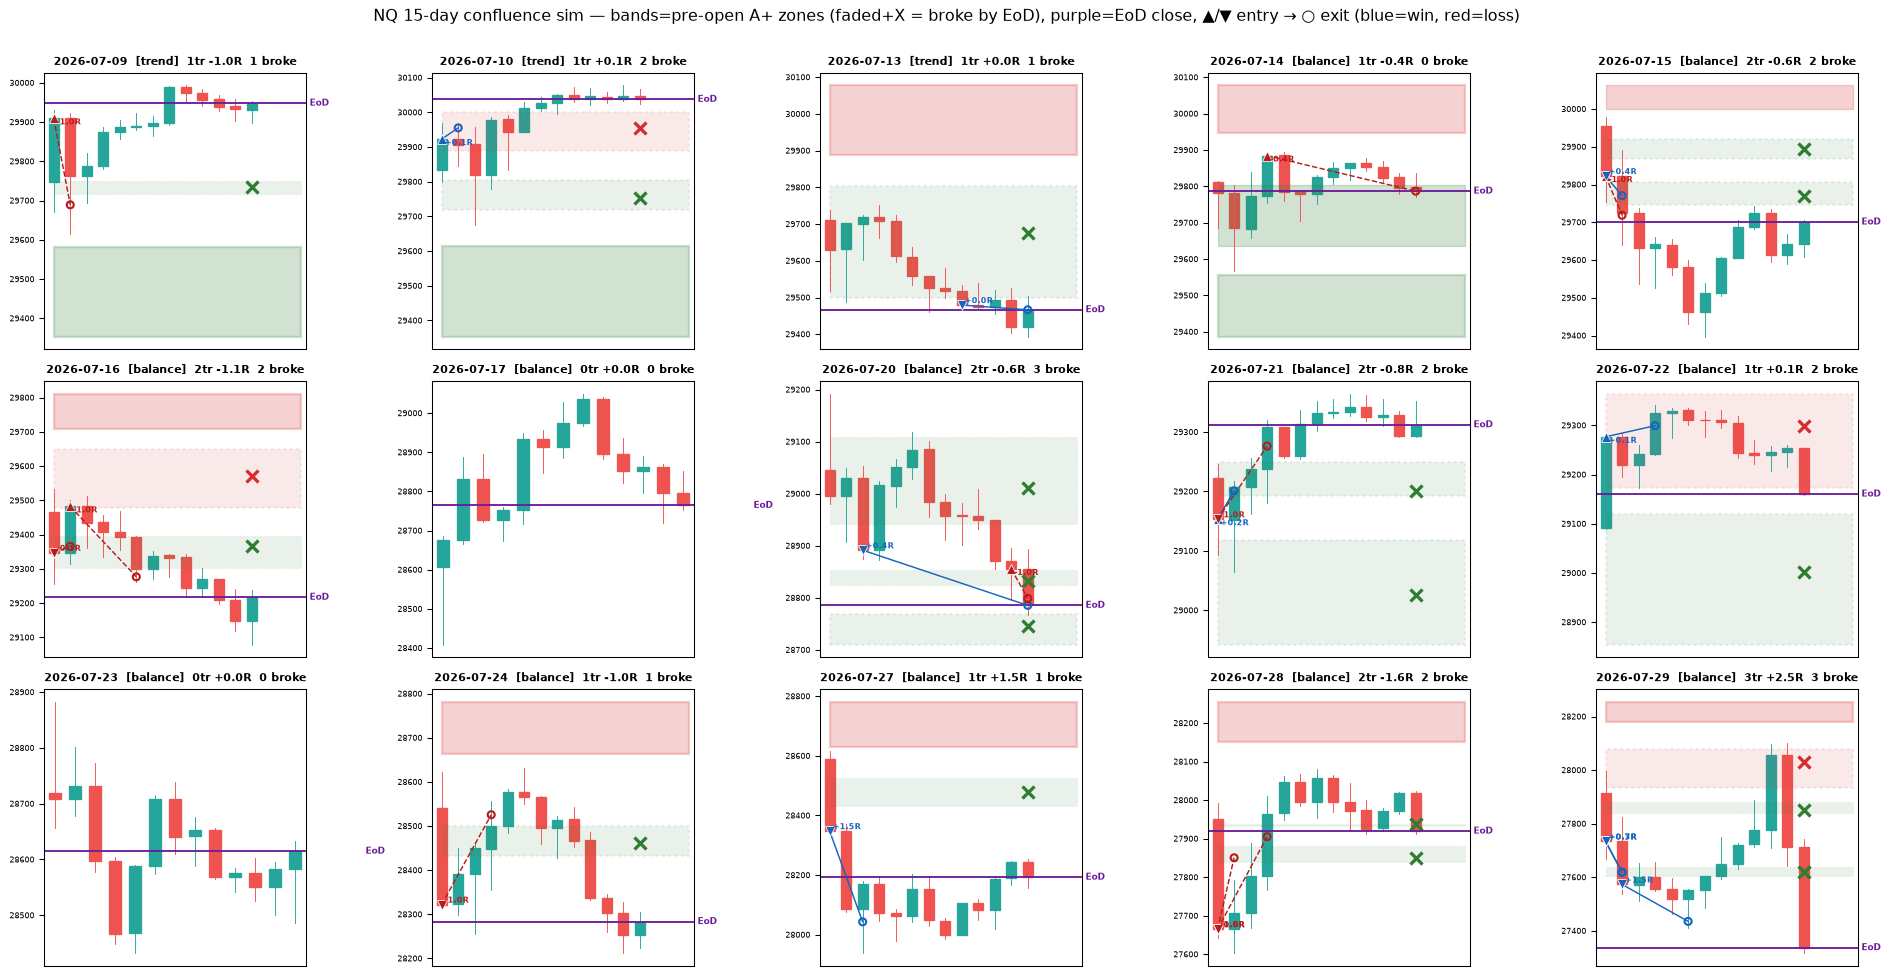
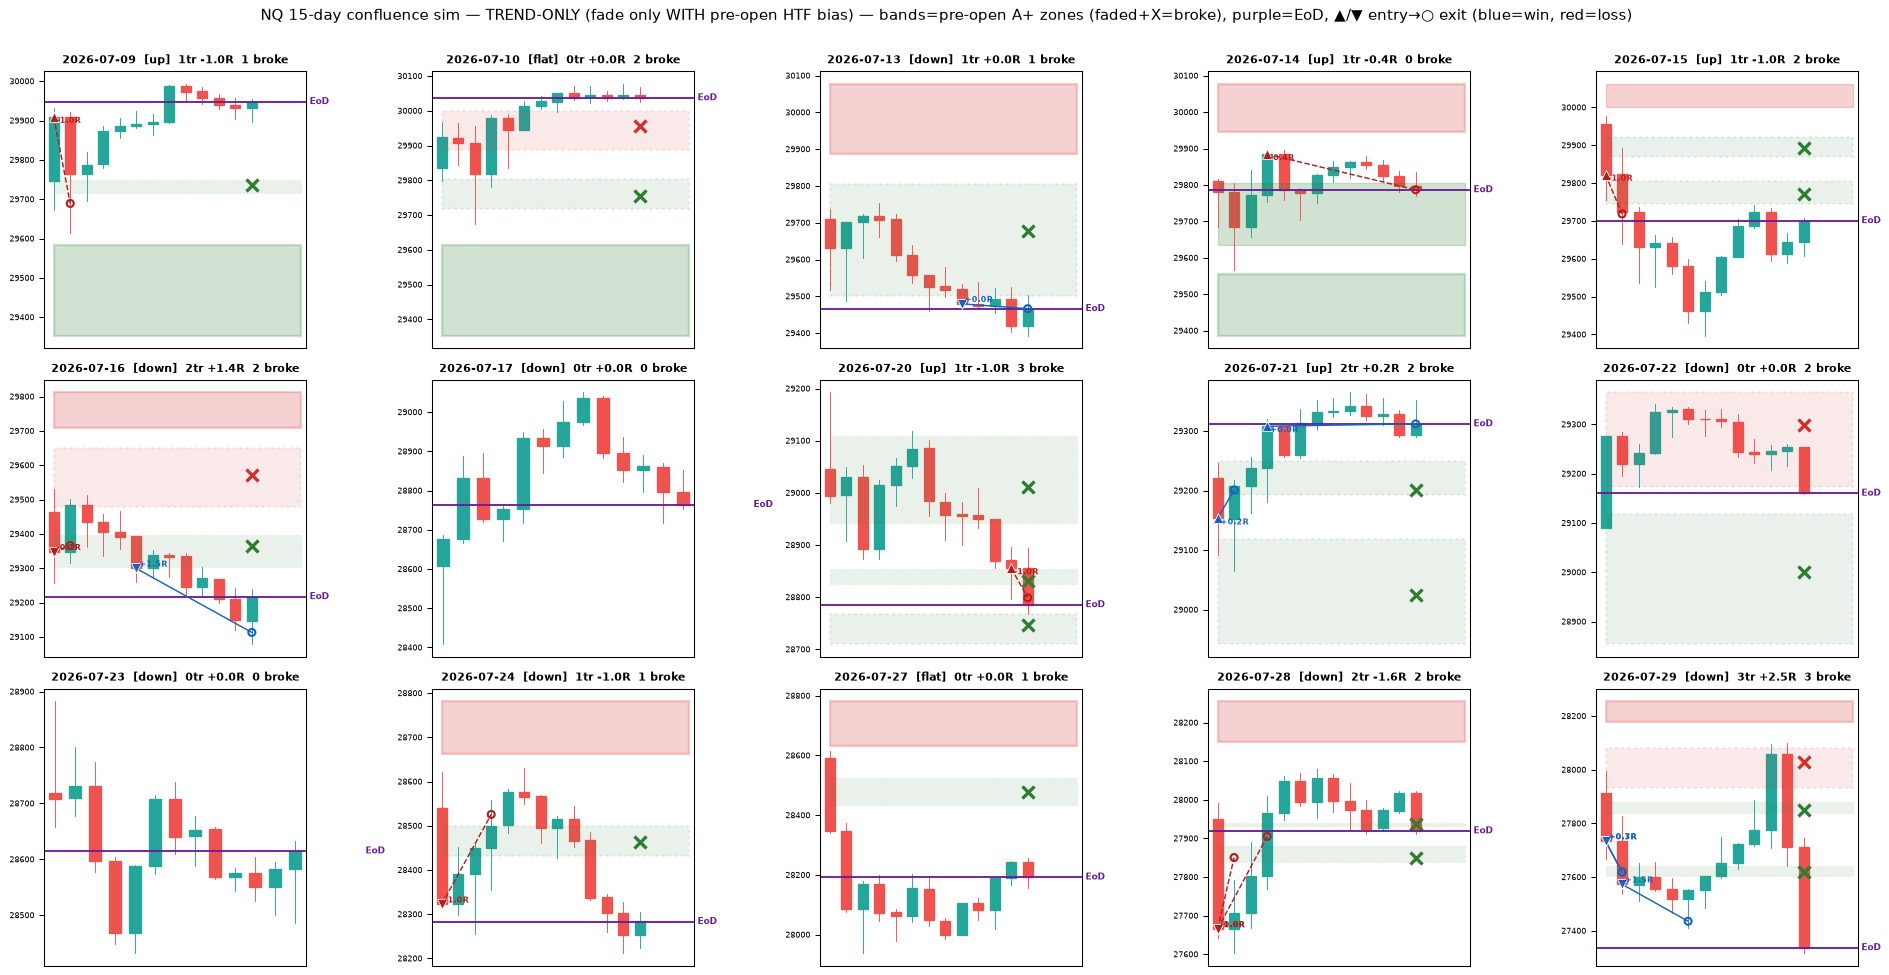
Trend-only variant: gate fades on a pre-open HTF bias (no lookahead)
Only take the fade aligned with a pre-open bias (price vs 2-session SMA + slope):
short resistance in a down-bias tape, long support in an up-bias tape, stand
aside when they disagree. Cuts counter-trend fades; net -2.8R -> -1.8R over 15
sessions, all the green coming from correctly-flagged down-days.

Claude-Session: https://claude.ai/code/session_016aQdjV8pEkud2m7UoLztFR

diff --git a/scripts/sim_15day.py b/scripts/sim_15day.py
@@ -45,32 +45,44 @@ def sessions(df):
     return df, ids, {i: df[df["sess"] == i] for i in ids}
 
 
-def simulate(rth, azones, regime, px):
-    """Mechanical fades of A+ zones on a 30-min close back off the zone."""
+def htf_bias(hist):
+    """Pre-open trend bias from bars BEFORE the open (no lookahead):
+    +1 up / -1 down only when price-vs-SMA and slope agree, else 0 (stand aside)."""
+    c = hist["close"]
+    px = float(c.iloc[-1])
+    sma = float(c.iloc[-60:].mean())
+    slope = float(np.polyfit(range(40), c.iloc[-40:].values, 1)[0])
+    if px > sma and slope > 0:
+        return 1
+    if px < sma and slope < 0:
+        return -1
+    return 0
+
+
+def simulate(rth, azones, bias, px):
+    """TREND-ONLY: take only the fade aligned with the pre-open HTF bias.
+    down-bias -> short resistance zones; up-bias -> long support zones."""
     buf = BUF_F * px
     arr = rth.reset_index(drop=True)
     trades, used = [], set()
-    trend_dir = 0
-    if regime == "trend":
-        trend_dir = 1 if arr["close"].iloc[-1] > arr["open"].iloc[0] else -1
     for i in range(len(arr) - 1):
         h, l, c = arr["high"][i], arr["low"][i], arr["close"][i]
         for zi, z in enumerate(azones):
             if zi in used:
                 continue
             lo, hi = z["lo"], z["hi"]
-            # resistance fade (short): tag the zone then close back below it
+            # resistance fade (short) — only WITH a down bias
             if h >= lo and c < lo:
-                if regime == "trend" and trend_dir > 0:
-                    used.add(zi); continue  # don't short a rising trend
+                if bias >= 0:
+                    continue  # not trend-aligned; leave zone live
                 entry, stop = c, hi + buf
                 tgt = _opp(azones, z, "down", entry, stop)
                 trades.append(_run(arr, i, i + 1, entry, stop, tgt, -1, z))
                 used.add(zi)
-            # support fade (long): tag then close back above
+            # support fade (long) — only WITH an up bias
             elif l <= hi and c > hi:
-                if regime == "trend" and trend_dir < 0:
-                    used.add(zi); continue
+                if bias <= 0:
+                    continue
                 entry, stop = c, lo - buf
                 tgt = _opp(azones, z, "up", entry, stop)
                 trades.append(_run(arr, i, i + 1, entry, stop, tgt, 1, z))
@@ -123,10 +135,10 @@ def main():
         zs, px = bt.build(hist, prior, 13)
         rth = rths[s]
         openp = float(rth["open"].iloc[0]); closep = float(rth["close"].iloc[-1])
-        denom = rth["close"].diff().abs().sum()
-        regime = "trend" if (denom and abs(closep - openp) / denom >= 0.4) else "balance"
+        bias = htf_bias(hist)
+        regime = {1: "up", -1: "down", 0: "flat"}[bias]
         az = [z for z in zs if z["w"] >= 8 and z["nt"] >= 2 and abs(z["price"] - openp) <= WIN_F * openp]
-        trades = simulate(rth, az, regime, px)
+        trades = simulate(rth, az, bias, px)
         # which zones broke by EoD
         broke = []
         for z in az:
@@ -138,14 +150,15 @@ def main():
         rows.append((s, regime, len(az), len(trades), netR, len(broke), openp, closep))
         allday.append((s, rth, az, trades, closep, broke, regime))
 
-    print("15-DAY CONFLUENCE SIM (NQ 30-min, pre-open A+ zones, no lookahead)\n")
-    print(f"{'date':12s} {'regime':8s} {'A+zones':7s} {'trades':6s} {'netR':6s} {'broke':5s}  O->C")
+    print("15-DAY CONFLUENCE SIM — TREND-ONLY (NQ 30-min, pre-open A+ zones + HTF bias, no lookahead)\n")
+    print(f"{'date':12s} {'bias':6s} {'A+zones':7s} {'trades':6s} {'netR':6s} {'broke':5s}  O->C")
     tot = 0.0; nt = 0; nw = 0
     for s, reg, nz, ntr, netR, nb, o, c in rows:
         tot += netR; nt += ntr
-        print(f"{s.date()!s:12s} {reg:8s} {nz:^7d} {ntr:^6d} {netR:+5.1f} {nb:^5d}  {o:.0f}->{c:.0f} ({c-o:+.0f})")
+        print(f"{s.date()!s:12s} {reg:6s} {nz:^7d} {ntr:^6d} {netR:+5.1f} {nb:^5d}  {o:.0f}->{c:.0f} ({c-o:+.0f})")
     wins = sum(1 for d in allday for t in d[3] if t["R"] > 0)
-    print(f"\nTOTAL: {nt} trades, {wins} wins ({wins/nt:.0%} win) , net {tot:+.1f}R over {len(rows)} sessions")
+    wr = f"{wins/nt:.0%}" if nt else "n/a"
+    print(f"\nTOTAL: {nt} trades, {wins} wins ({wr} win) , net {tot:+.1f}R over {len(rows)} sessions")
     _chart(allday)
 
 
@@ -193,8 +206,9 @@ def _chart(allday):
         ax.set_title(f"{s.date()}  [{regime}]  {len(trades)}tr {netR:+.1f}R  {len(broke)} broke",
                      fontsize=8.5, fontweight="bold")
         ax.set_xticks([]); ax.tick_params(labelsize=6); ax.margins(x=0.02)
-    fig.suptitle("NQ 15-day confluence sim — bands=pre-open A+ zones (faded+X = broke by EoD), "
-                 "purple=EoD close, ▲/▼ entry → ○ exit (blue=win, red=loss)", fontsize=12, y=1.002)
+    fig.suptitle("NQ 15-day confluence sim — TREND-ONLY (fade only WITH pre-open HTF bias) — "
+                 "bands=pre-open A+ zones (faded+X=broke), purple=EoD, ▲/▼ entry→○ exit (blue=win, red=loss)",
+                 fontsize=11, y=1.002)
     plt.tight_layout()
     out = ROOT / "reports" / "img" / "nq_15day_sim.png"
     plt.savefig(out, dpi=95, bbox_inches="tight")
